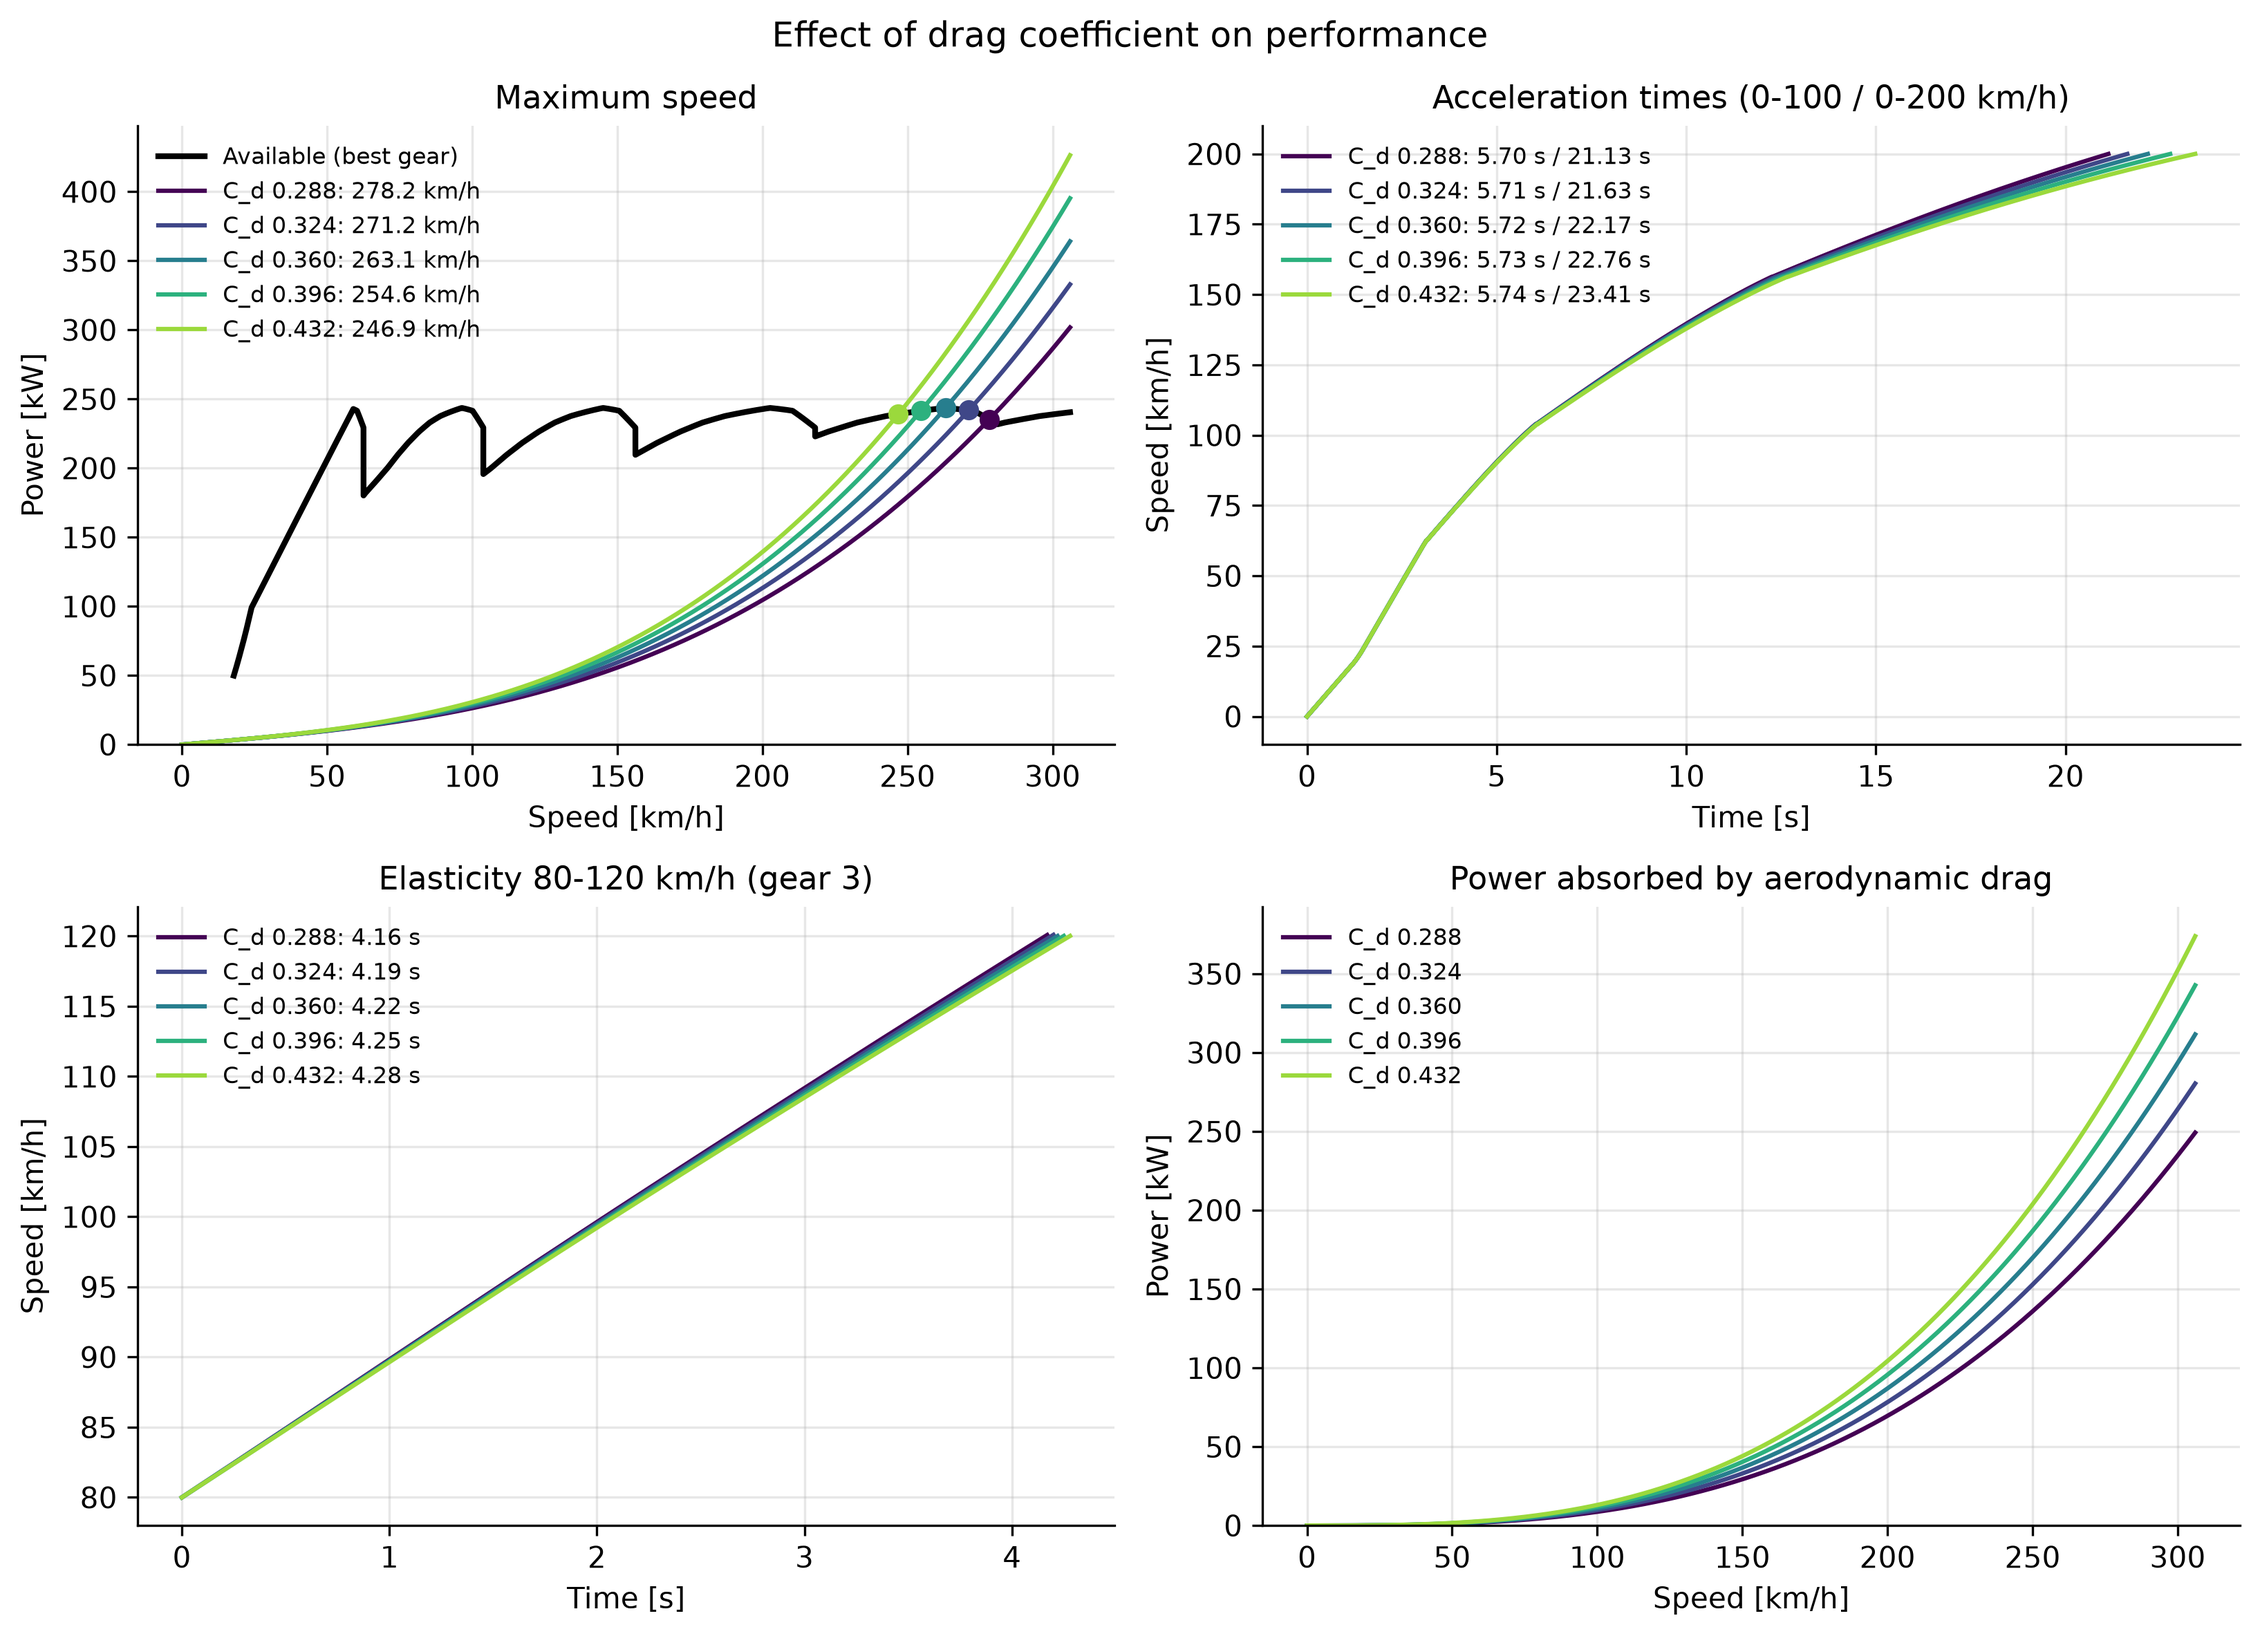
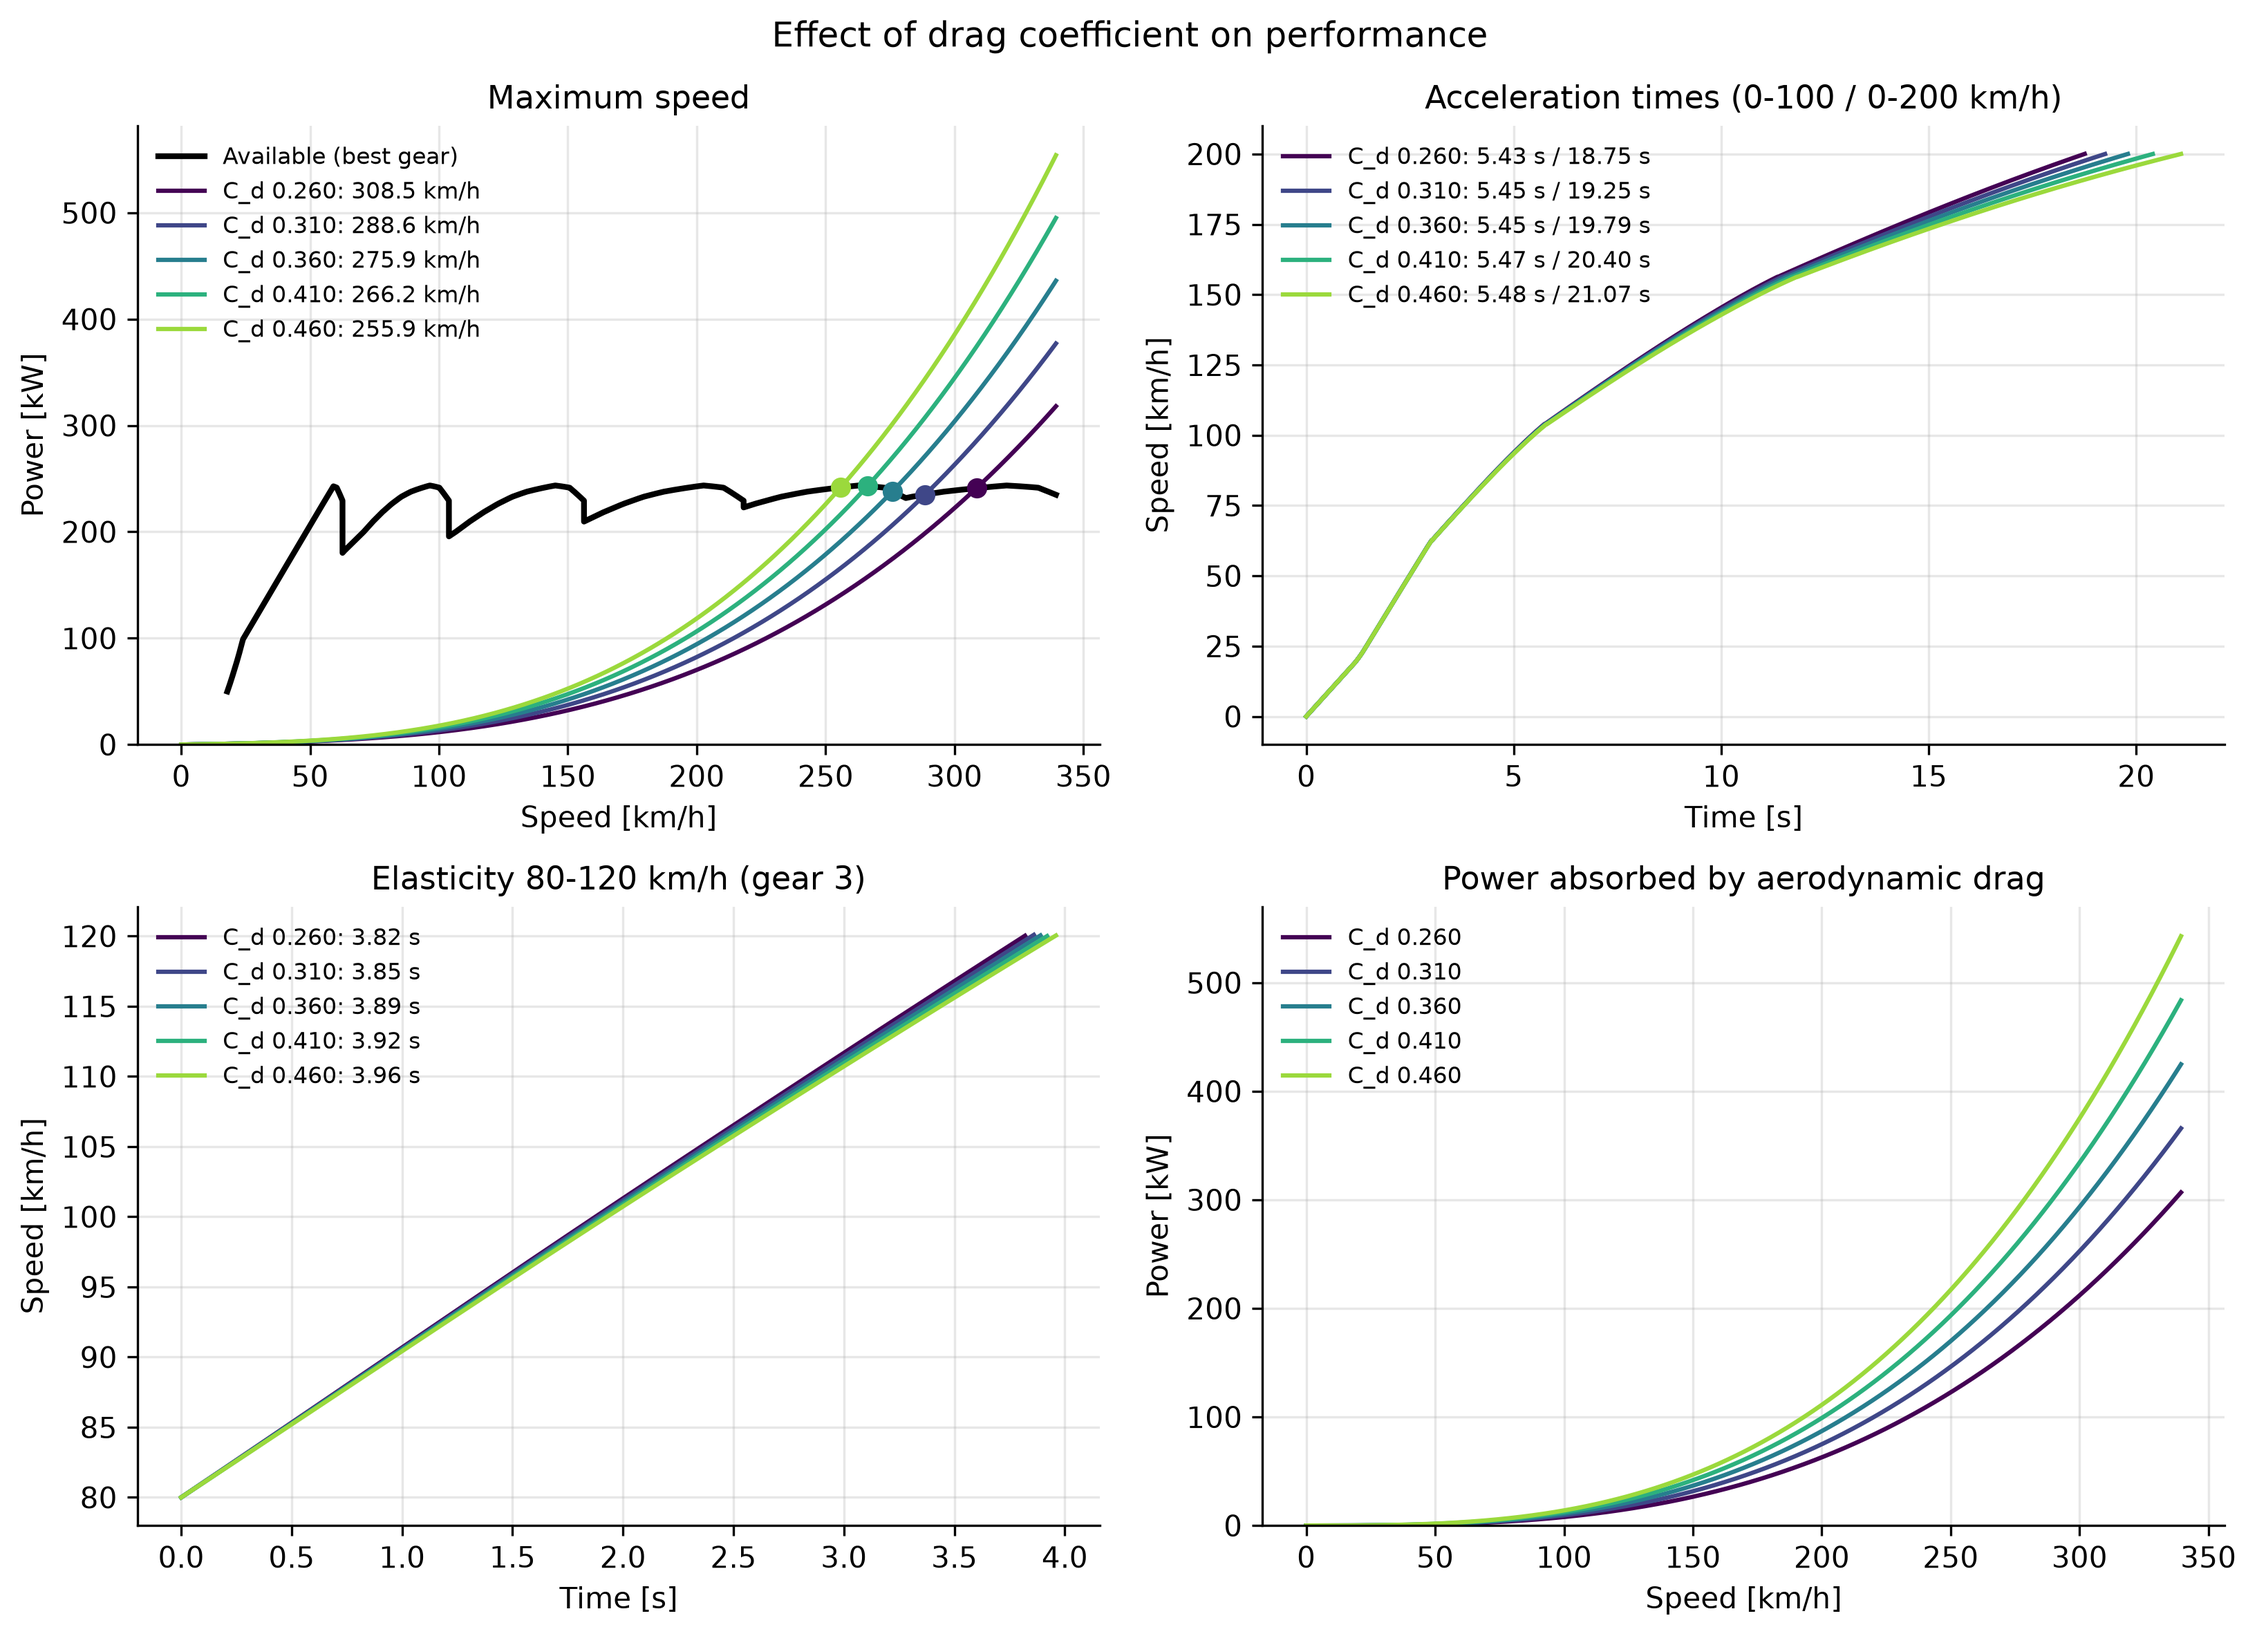
Defined sweeps and improved plot visualization

diff --git a/src/simulate.py b/src/simulate.py
@@ -1,6 +1,6 @@
 import numpy as np
 import params as p
-from model import (engine_rpm, drag_force, rolling_force, grade_force,
+from model import (engine_rpm, drag_force, rolling_force,
                    resistance_force, tractive_force, acceleration)
 
 # --- SETTINGS ---
@@ -58,7 +58,6 @@ def power_curves():
     res = {"v": v,
            "P_drag": drag_force(v)*v,
            "P_roll": rolling_force(v)*v,
-           "P_grad": grade_force(v)*v,
            "P_tot":  resistance_force(v)*v,
            "P_gear": {g: wheel_power(v, g) for g in range(1, N_GEARS+1)}}
 
@@ -144,9 +143,9 @@ def elasticity_run(gear, v_start=80/3.6, v_end=120/3.6):
 # --- 4. AERODYNAMIC COEFFICIENT SENSITIVITY ---
 # One coefficient changes at a time; everything else stays at its params.py value.
 
-CD_VALUES = p.CD*(1 + np.array([-0.2, -0.1, 0.0, 0.1, 0.2]))   # [-] baseline +/-20%
-CL_VALUES = np.array([-0.4, -0.2, 0.0, 0.2, 0.4])              # [-] downforce to lift
-# C_L uses a wider, absolute range: +/-20% of 0.2 is only +/-0.04 and changes nothing visible.
+COEFF_STEPS = np.array([-0.10, -0.05, 0.0, 0.05, 0.10])   # [-] same absolute +/- step for C_d and C_L
+CD_VALUES = p.CD + COEFF_STEPS   # [-] 0.26-0.46, passenger car range (~0.25-0.45)
+CL_VALUES = p.CL + COEFF_STEPS   # [-] 0.10-0.30, passenger car range (~0.0-0.4, net lift)
 
 def best_elasticity_gear():
     """Fastest 80-120 gear with the current params."""
@@ -208,7 +207,7 @@ def summary():
     best = min(ela, key=lambda g: ela[g]["t_run"])
 
     print("=" * 52)
-    print(f"Conditions: {p.GRADE*100:.0f}% grade, Cd = {p.CD}, A = {p.AREA_FRONT} m^2, m = {p.MASS} kg")
+    print(f"Conditions: level road, Cd = {p.CD}, A = {p.AREA_FRONT} m^2, m = {p.MASS} kg")
     print("=" * 52)
 
     print("\nPower balance")
@@ -232,25 +231,32 @@ def summary():
             print(f"  Gear {g}: outside torque map")
     print(f"  Best gear: {best} ({ela[best]['t_run']:.2f} s)")
 
+    # Sensitivity tables: each metric followed by its % change from the baseline run
+    def metrics(r):
+        return (r["power"]["v_max"]*3.6, time_to_speed(r["accel"], 100),
+                time_to_speed(r["accel"], 200), r["elasticity"]["t_run"])
+    base = (pc["v_max"]*3.6, time_to_speed(acc, 100), time_to_speed(acc, 200), ela[best]["t_run"])
+    fmt  = ("6.1f", "5.2f", "5.2f", "5.2f")
+    def row(r):
+        return " | ".join(f"{m:{f}} ({(m/b - 1)*100:+5.1f}%)" for m, b, f in zip(metrics(r), base, fmt))
+    head = f"{'v_max [km/h]':<15} | {'0-100 [s]':<14} | {'0-200 [s]':<14} | 80-120 gear {{}} [s]"
+
     sens = {"CD": coeff_sensitivity("CD", CD_VALUES),
             "CL": coeff_sensitivity("CL", CL_VALUES)}
     for name, label, fixed in [("CD", "Drag", f"C_L = {p.CL}"), ("CL", "Lift", f"C_d = {p.CD}")]:
         gear = next(iter(sens[name].values()))["elasticity"]["gear"]
-        print(f"\n{label} coefficient sensitivity ({fixed}, A = {p.AREA_FRONT} m^2 fixed)")
-        print(f"   {name}   | v_max [km/h] | 0-100 [s] | 0-200 [s] | 80-120 gear {gear} [s]")
+        print(f"\n{label} coefficient sensitivity ({fixed}, A = {p.AREA_FRONT} m^2 fixed, % vs baseline)")
+        print(f"   {name}    | {head.format(gear)}")
         for val, r in sens[name].items():
-            print(f"  {val:+.3f} |    {r['power']['v_max']*3.6:6.1f}    |   {time_to_speed(r['accel'], 100):5.2f}   |"
-                  f"   {time_to_speed(r['accel'], 200):5.2f}   |   {r['elasticity']['t_run']:5.2f}")
+            print(f"  {val:+.3f} | {row(r)}")
 
     yaw = yaw_cases()
     gear = next(iter(yaw.values()))["elasticity"]["gear"]
-    print(f"\nYaw sensitivity (crosswind, C_d and C_L from yaw table up to {p.PSI[-1]} deg)")
-    print(f"  Wind [m/s] | yaw at v_max [deg] | v_max [km/h] | 0-100 [s] | 0-200 [s] | 80-120 gear {gear} [s]")
+    print(f"\nYaw sensitivity (crosswind, C_d and C_L from yaw table up to {p.PSI[-1]} deg, % vs baseline)")
+    print(f"  Wind [m/s] | yaw at v_max [deg] | {head.format(gear)}")
     for w, r in yaw.items():
         psi_vmax = np.degrees(np.arctan2(w, r["power"]["v_max"]))
-        print(f"     {w:4.0f}    |       {psi_vmax:5.1f}        |    {r['power']['v_max']*3.6:6.1f}    |"
-              f"   {time_to_speed(r['accel'], 100):5.2f}   |   {time_to_speed(r['accel'], 200):5.2f}   |"
-              f"   {r['elasticity']['t_run']:5.2f}")
+        print(f"     {w:4.0f}    |       {psi_vmax:5.1f}        | {row(r)}")
 
     return {"power": pc, "accel": acc, "elasticity": ela, "sensitivity": sens, "yaw": yaw}
 

diff --git a/src/plots.py b/src/plots.py
@@ -3,7 +3,7 @@ import time
 import numpy as np
 import matplotlib.pyplot as plt
 import params as p
-from model import drag_force, rolling_force, grade_force, resistance_force
+from model import drag_force, rolling_force, resistance_force
 
 # --- SHARED STYLE (import this module from other sections to reuse it) ---
 FIG_DIR  = Path(__file__).resolve().parent.parent / "figures"
@@ -48,8 +48,17 @@ def fig_resistance_forces(v_max_kmh=300):
     fig, ax = plt.subplots()
     ax.plot(v_kmh, drag_force(v), label="Drag")
     ax.plot(v_kmh, rolling_force(v), label="Rolling resistance")
-    ax.plot(v_kmh, grade_force(v), label=f"Gradient ({p.GRADE*100:.0f}%)")
     ax.plot(v_kmh, resistance_force(v), "k", lw=2, label="Total")
+
+    # Drag = rolling resistance crossover (first sign change of the difference)
+    diff = drag_force(v) - rolling_force(v)
+    i = np.argmax(diff >= 0)
+    v_x = np.interp(0, diff[i-1:i+1], v_kmh[i-1:i+1])
+    F_x = drag_force(v_x/3.6)
+    ax.plot(v_x, F_x, "o", color=HIGHLIGHT)
+    ax.annotate(f"{v_x:.1f} km/h, {F_x:.0f} N", (v_x, F_x), xytext=(8, -14),
+                textcoords="offset points", color=HIGHLIGHT)
+
     ax.set_xlabel("Speed [km/h]")
     ax.set_ylabel("Force [N]")
     ax.set_title("Resistance forces vs speed")
@@ -61,7 +70,7 @@ def fig_power_curves(pc):
     show = v_kmh <= 1.15*pc["v_max"]*3.6
     fig, ax = plt.subplots(figsize=(9, 6))
     for g, P in pc["P_gear"].items():
-        ax.plot(v_kmh[show], P[show]/1e3, lw=1, label=f"Gear {g}")
+        ax.plot(v_kmh[show], P[show]/1e3, lw=1, alpha=0.45, label=f"Gear {g}")   # soft, so legend text stays readable
     ax.plot(v_kmh[show], pc["P_tot"][show]/1e3, "k", lw=2, label="P_total")
     ax.axvline(pc["v_max"]*3.6, color=HIGHLIGHT, linestyle="--",
                label=f"v_max unrestricted {pc['v_max']*3.6:.0f} km/h")

diff --git a/src/model.py b/src/model.py
@@ -48,17 +48,14 @@ def lift_force(v):
     return 0.5*p.RHO_AIR*lift_coeff(v)*p.AREA_FRONT*air_speed_sq(v)
 
 def normal_force(v):
-    """Total tyre load [N]: weight component normal to the road, minus aero lift."""
-    return p.MASS*p.G*np.cos(p.ALPHA_GRADIENT) - lift_force(v)
+    """Total tyre load [N]: weight minus aero lift (level road)."""
+    return p.MASS*p.G - lift_force(v)
 
 def rolling_force(v):
     return p.C_RR*normal_force(v)
 
-def grade_force(v):
-    return p.MASS*p.G*np.sin(p.ALPHA_GRADIENT)*np.ones_like(v)
-
 def resistance_force(v):
-    return drag_force(v) + rolling_force(v) + grade_force(v)
+    return drag_force(v) + rolling_force(v)
 
 
 # --- TRACTIVE FORCE ---

diff --git a/src/params.py b/src/params.py
@@ -3,8 +3,6 @@ import numpy as np
 # --- ENVIRONMENT ---
 RHO_AIR        = 1.225      # [kg/m^3] air density, ISA sea level
 G              = 9.81       # [m/s^2] gravitational acceleration
-GRADE          = 0.03       # [-] road gradient, 3% (rise/run) - coursework brief
-ALPHA_GRADIENT = np.arctan(GRADE)   # [rad] derived from GRADE
 
 # --- VEHICLE ---
 MASS           = 1685       # [kg] vehicle mass - coursework brief
